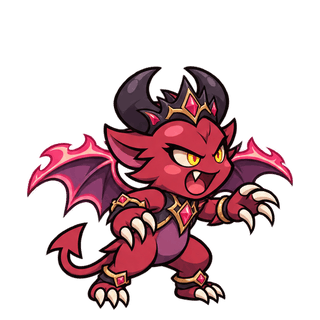
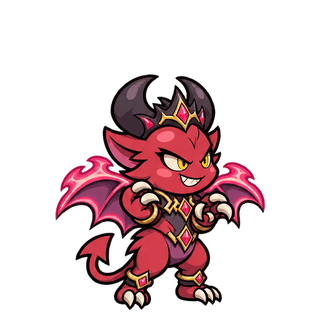
신규 몬스터 진화 단계 동작 24장 들임 — 루트링 · 그리플링 · 요툰 · 임피 그림 요청 전부 끝
2 · 3단계 대기 2장 · 공격 3장(make-anim, 2.09 → 0.67MB). 단계 외형에 기본 단계 몸짓.
24장 검사 · 육안 검수 통과. stageFrames 가 아라크네와 같아졌고 Lv 25 · 75 전투에서 재생 확인, 404 없음.

Changed region(s): [[0.0625, 0.1875, 0.9375, 0.9688]]

diff --git a/docs/new-monsters-4-phase2b-handoff.md b/docs/new-monsters-4-phase2b-handoff.md
@@ -1,6 +1,9 @@
 # 아트 담당(Codex) 전달 — 신규 몬스터 4종 2차-B (진화 단계 동작 프레임 24장)
 
-> **상태: 기다리는 중 (2026-11-16).** 2차-A(진화 32 · 기본 동작 12)는 적용 완료.
+> **적용 완료 (2026-11-16) — 신규 몬스터 그림 요청 전부 끝.** 24장 검사·육안 검수 통과 · `make-anim` 압축 2.09MB → 0.67MB(32%).
+> 매니페스트 `stageFrames` t2_ · t3_ 모두 대기 2 · 공격 3 (아라크네와 같다). Lv 25 · 75 전투에서 재생 확인, 404 없음.
+>
+> (아래는 요청 당시 내용) 2차-A(진화 32 · 기본 동작 12)는 적용 완료.
 > 이제 루트링 · 그리플링 · 요툰 · 임피가 Lv 25 · 75 에 모습이 바뀝니다. 다만 **진화한 모습은 대기·공격이 한 장씩**이라
 > 기본 모습(대기 2장 · 공격 3장)보다 뻣뻣합니다 — 기존 12종은 진화 단계도 전부 3장씩 받았습니다.
 

diff --git a/DESIGN.md b/DESIGN.md
@@ -1555,7 +1555,7 @@ ttk 가 **0 으로 언더플로**하고 `log10(0) = -Infinity` 라 보상이 통
 `<img>` 의 onerror 로 `?` 를 띄운다. 그림이 와도 코드는 안 바뀐다 —
 요청서는 `docs/new-monsters-handoff.md` 에 있다.
 
-### 몬스터 4종 추가 — 루트링 · 그리플링 · 요툰 · 임피 (2026-11-16, 기본 · 진화 · 기본 동작 적용 · 진화 단계 동작 대기)
+### 몬스터 4종 추가 — 루트링 · 그리플링 · 요툰 · 임피 (2026-11-16, 그림 전부 적용)
 
 스포어링(100)과 본가드(200) 사이 120 · 140 · 160 · 180층. 모두의 타워디펜스 월드 보스(고대 나무 거인 · 폭풍 그리폰 ·
 서리 거인 · 마왕)를 꼬마로 옮겼다 — 기존 12종·진화 모습과 겹치지 않는 종만(킹 슬라임 = 글룹 Lv50 왕관, 새끼 드래곤 = 이그나리온).
